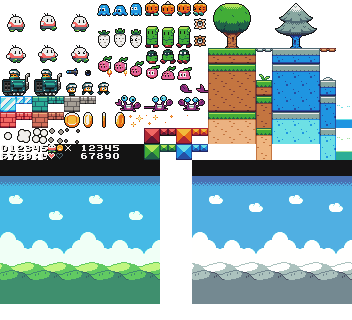
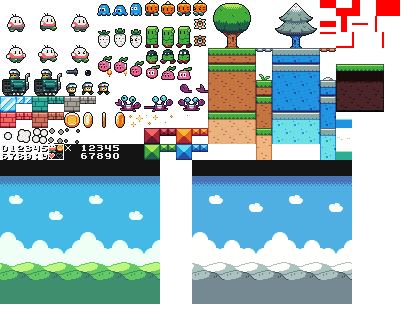
see-through walls

diff --git a/game.go b/game.go
@@ -13,6 +13,7 @@ import (
 	"github.com/kyeett/gomponents/components"
 	"github.com/kyeett/tiled"
 	"github.com/peterhellberg/gfx"
+	"golang.org/x/image/colornames"
 
 	"github.com/hajimehoshi/ebiten"
 	"github.com/hajimehoshi/ebiten/inpututil"
@@ -22,6 +23,8 @@ import (
 var (
 	tmpImg        *ebiten.Image
 	backgroundImg *ebiten.Image
+	foregroundImg *ebiten.Image
+	visionImg     *ebiten.Image
 	traceImg      *ebiten.Image
 	scoreboardImg *ebiten.Image
 )
@@ -51,22 +54,62 @@ func (g *Game) update(screen *ebiten.Image) error {
 	// UpdatePreMovement
 	// Apply friction, gravity and keypresses
 	g.updatePreMovement()
-
 	g.updateMovement(screen)
 
 	// For each Entity
-	screen.DrawImage(backgroundImg, &ebiten.DrawImageOptions{})
 	if ebiten.IsDrawingSkipped() {
 		return nil
 	}
-
 	g.updatePostMovement()
 
+	// Draw background
+
+	screen.DrawImage(backgroundImg, &ebiten.DrawImageOptions{})
+
+	// screen.DrawImage(foregroundImg, &ebiten.DrawImageOptions{})
 	// Draw entities
 	g.drawEntities(screen)
+
+	g.drawPlayerVision(screen)
+
+	// Draw foreground
+	// screen.DrawImage(foregroundImg, &ebiten.DrawImageOptions{})
+
 	g.drawScoreboard(screen)
 	g.drawDebugInfo(screen)
 	return nil
+}
+
+func (g *Game) drawHitboxes(screen *ebiten.Image) {
+	if hitbox {
+		// Draw hitboxes
+		for _, e := range g.filteredEntities(components.HitboxType, components.PosType) {
+			pos := g.entities.GetUnsafe(e, components.PosType).(*components.Pos)
+			hb := g.entities.GetUnsafe(e, components.HitboxType).(*components.Hitbox)
+
+			if hb.Properties["allow_from_down"] {
+				drawPixelRect(screen, hb.Moved(pos.Vec), colornames.Turquoise)
+			} else {
+				drawPixelRect(screen, hb.Moved(pos.Vec), colornames.Red)
+			}
+		}
+	}
+}
+
+func (g *Game) drawPlayerVision(screen *ebiten.Image) {
+	opt := &ebiten.DrawImageOptions{}
+	// opt.Address = ebiten.AddressRepeat
+
+	pos := g.entities.GetUnsafe(playerID, components.PosType).(*components.Pos)
+	opt.GeoM.Translate(pos.X-float64(visionImg.Bounds().Dx())/2+15, pos.Y-float64(visionImg.Bounds().Dy())/2+20)
+	opt.CompositeMode = ebiten.CompositeModeDestinationOut
+	tmp, _ := ebiten.NewImageFromImage(foregroundImg, ebiten.FilterDefault)
+	// tmp, _ := ebiten.NewImage(200, 200, ebiten.FilterDefault)
+	// tmp.Fill(colornames.Red)
+	// backgroundImg.DrawImage(visionImg, &ebiten.DrawImageOptions{})
+
+	tmp.DrawImage(visionImg, opt)
+	screen.DrawImage(tmp, &ebiten.DrawImageOptions{})
 }
 
 type Game struct {
@@ -112,6 +155,10 @@ func NewGame() Game {
 	scoreboardImg, _ = ebiten.NewImage(g.Width, 16, ebiten.FilterDefault)
 	scoreboardImg.Fill(color.Black)
 
+	tmpImg2 := gfx.NewImage(200, 200, color.Transparent)
+	gfx.DrawCircle(tmpImg2, gfx.V(100, 100), 50, 0, color.White)
+	visionImg, _ = ebiten.NewImageFromImage(tmpImg2, ebiten.FilterDefault)
+
 	img, err := worldMap.LoadImage(0)
 	if err != nil {
 		log.Fatal("decode image: %s")
@@ -139,11 +186,54 @@ func NewGame() Game {
 		if err != nil {
 			log.Fatal(err)
 		}
-
 	}
 
 	for _, layer := range worldMap.FilteredLayers() {
-		if layer.Name == "background" {
+		if layer.Name != "foreground" {
+			continue
+		}
+
+		img := gfx.NewImage(g.Width, g.Height, color.Transparent)
+		for _, t := range worldMap.LayerTiles(layer) {
+			sRect := image.Rect(t.SrcX, t.SrcY, t.SrcX+t.Width, t.SrcY+t.Height)
+			dstRect := image.Rect(t.X, t.Y, g.Width+100, g.Height)
+			draw.Draw(img, dstRect, sImg.SubImage(sRect), image.Pt(t.SrcX, t.SrcY), draw.Over)
+		}
+
+		foregroundImg, err = ebiten.NewImageFromImage(img, ebiten.FilterDefault)
+
+		if err != nil {
+			log.Fatal(err)
+		}
+	}
+
+	for _, layer := range worldMap.FilteredLayers() {
+		if layer.Name != "hitboxes" {
+			continue
+		}
+
+		for _, t := range worldMap.LayerTiles(layer) {
+			id := fmt.Sprintf("%d", rand.Intn(10000))
+			g.entities.Add(id, components.Pos{gfx.V(float64(t.X), float64(t.Y))})
+			for _, o := range t.Objectgroup.Objects {
+				box := gfx.R(float64(o.X), float64(o.Y), float64(o.X+o.Width), float64(o.Y+o.Height))
+				b := components.NewHitbox(box)
+
+				// Check for special hitboxes
+				for _, p := range o.Properties.Property {
+					if p.Name == "allow_from_down" && p.Value == "true" {
+						b.Properties[p.Name] = true
+					}
+				}
+				g.entities.Add(id, b)
+			}
+			g.parseTileProperty(id, t.Properties.Property)
+			g.entityList = append(g.entityList, id)
+		}
+	}
+
+	for _, layer := range worldMap.FilteredLayers() {
+		if layer.Name == "background" || layer.Name == "hitboxes" || layer.Name == "foreground" {
 			continue
 		}
 

diff --git a/physics.go b/physics.go
@@ -35,11 +35,11 @@ func (g *Game) updateMovement(screen *ebiten.Image) {
 		s := hitboxToRect(resizedBox)
 		// s.SetTags(e)
 		// s.SetData(hb)
-		s.SetTags(e)
+		tags := []string{e}
 		if hb.Properties["allow_from_down"] {
-			s.SetTags("allow_from_down")
+			tags = append(tags, "allow_from_down")
 		}
-
+		s.SetTags(tags...)
 		space.AddShape(s)
 	}
 
@@ -65,6 +65,7 @@ func (g *Game) updateMovement(screen *ebiten.Image) {
 			t := res.ShapeB.GetTags()[0]
 			// Calculate distance to object
 			// Todo, fix
+
 			_, bY := res.ShapeB.GetXY()
 
 			entityUnderneath := v.Y > 0
@@ -93,17 +94,7 @@ func (g *Game) updateMovement(screen *ebiten.Image) {
 
 		if res := space.Resolve(r, int32(factor*v.X), 0); res.Colliding() && !res.Teleporting {
 			t := res.ShapeB.GetTags()[0]
-
-			if g.entities.HasComponents(t, components.HazardType) {
-				g.Reset()
-				return
-			}
-
-			// Bounce if not jumping or falling
-			if v.Y == 0 {
-				v.X = -0.5 * v.X
-			}
-
+			g.handleCollidedX(e, t)
 		} else {
 			pos.X += v.X
 		}
@@ -126,4 +117,18 @@ func (g *Game) handleKilled(t string) {
 			return pas.Y > float64(g.Height)
 		},
 	})
+}
+
+func (g *Game) handleCollidedX(e, t string) {
+
+	v := g.entities.GetUnsafe(e, components.VelocityType).(*components.Velocity)
+	if g.entities.HasComponents(t, components.HazardType) {
+		g.Reset()
+		return
+	}
+
+	// Bounce if not jumping or falling
+	if v.Y == 0 {
+		v.X = -0.5 * v.X
+	}
 }

diff --git a/render.go b/render.go
@@ -100,18 +100,4 @@ func (g *Game) drawEntities(screen *ebiten.Image) {
 		// For debug, add dot to mark position
 		ebitenutil.DrawRect(traceImg, pos.X, pos.Y, 1, 1, colornames.Red)
 	}
-
-	if hitbox {
-		// Draw hitboxes
-		for _, e := range g.filteredEntities(components.HitboxType, components.PosType) {
-			pos := g.entities.GetUnsafe(e, components.PosType).(*components.Pos)
-			hb := g.entities.GetUnsafe(e, components.HitboxType).(*components.Hitbox)
-
-			if hb.Properties["allow_from_down"] {
-				drawPixelRect(screen, hb.Moved(pos.Vec), colornames.Turquoise)
-			} else {
-				drawPixelRect(screen, hb.Moved(pos.Vec), colornames.Red)
-			}
-		}
-	}
 }

diff --git a/main.go b/main.go
@@ -9,7 +9,7 @@ import (
 	"github.com/sirupsen/logrus"
 )
 
-var hitbox = false
+var hitbox = true
 var bnw = false
 
 func main() {
